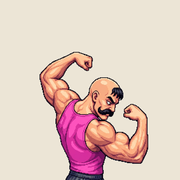
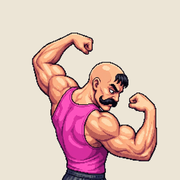
Иконка Бориса: фигура крупнее (k30-v13)

Changed region(s): [[0.1667, 0.1667, 0.8889, 1.0]]

diff --git a/sw.js b/sw.js
@@ -1,5 +1,5 @@
 /* Офлайн-кэш: страница берётся из сети (чтобы обновления доходили сразу), без сети открывается из кэша. */
-const V = 'k30-v12';
+const V = 'k30-v13';
 const CORE = [
   "./",
   "./index.html",
